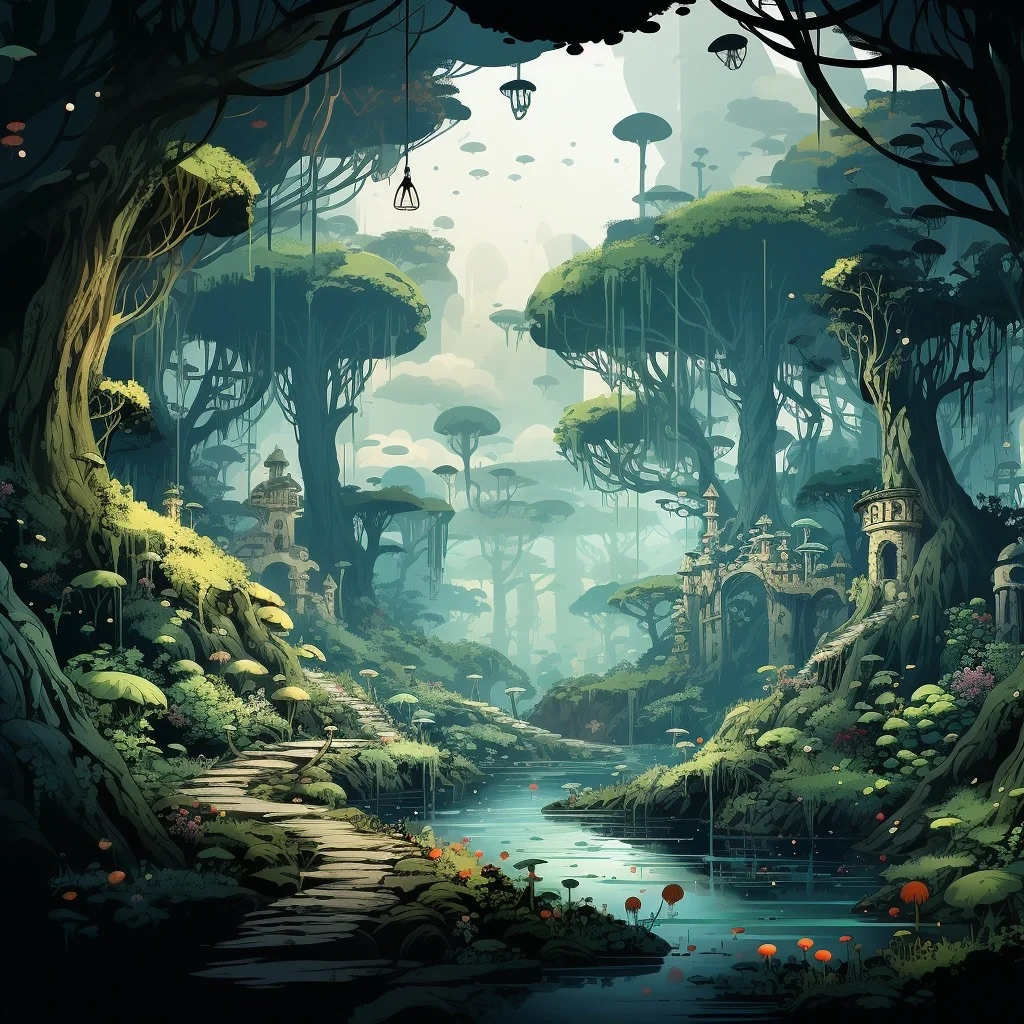
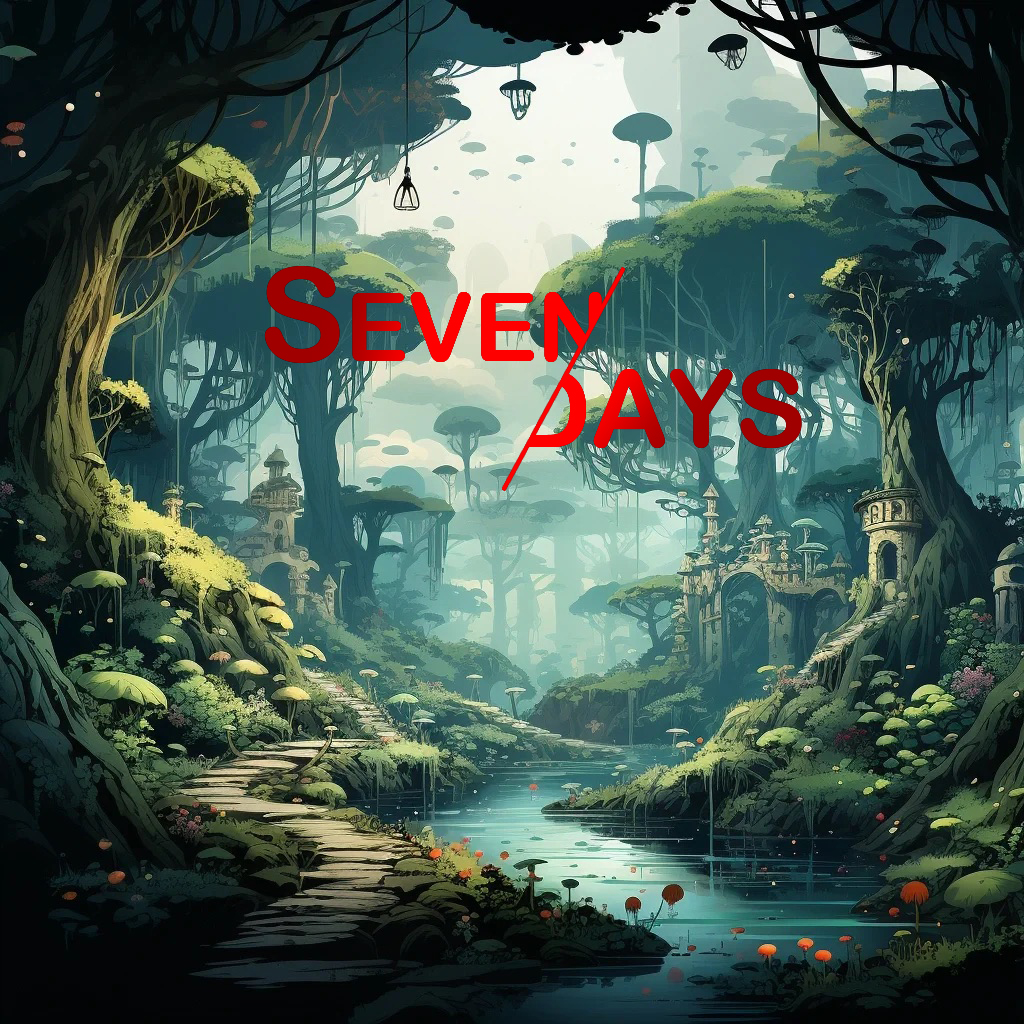
change

Changed region(s): [[0.25, 0.25, 0.7812, 0.4688], [0.5938, 0.25, 0.625, 0.2812]]

diff --git a/arc/main/java/ui/UI.java b/arc/main/java/ui/UI.java
@@ -1,10 +1,5 @@
 package arc.main.java.ui;
 
-import javax.swing.BorderFactory;
-import javax.swing.BoxLayout;
-import javax.swing.JButton;
-import javax.swing.JFrame;
-import javax.swing.JPanel;
 import javax.swing.border.Border;
 
 import arc.main.java.model.Determinator.Determinator;
@@ -17,21 +12,12 @@ import arc.main.java.model.Player.Player;
 import arc.main.java.model.Store.Order;
 import arc.main.java.model.Store.Store;
 
-import javax.swing.JLabel;
-import javax.swing.JOptionPane;
-import java.awt.GridLayout;
-import java.awt.BorderLayout;
-import java.awt.Component;
-import java.awt.GridBagLayout;
-import java.awt.GridBagConstraints;
-import java.awt.Insets;
 import java.io.BufferedReader;
 import java.io.FileReader;
 import java.io.FileWriter;
 import java.io.IOException;
 import java.util.ArrayList;
 import java.util.List;
-import java.awt.Font;
 
 import arc.main.java.model.Game.loadData;
 
@@ -88,12 +74,12 @@ public class UI extends JFrame {
         gbc.fill = GridBagConstraints.BOTH;
         gbc.anchor = GridBagConstraints.NORTH;
 
-        mainPanel.add(titlePanel);
+        /* mainPanel.add(titlePanel);
         JLabel gameNameLable = new JLabel("SEVENDAYS");
         gameNameLable.setFont(new Font("Times New Roman", Font.PLAIN, 108));
 
         titlePanel.add(gameNameLable);
-        mainPanel.add(titlePanel, gbc);
+        mainPanel.add(titlePanel, gbc); */
 
         gbc.gridy = 1;
         gbc.anchor = GridBagConstraints.CENTER;
@@ -118,6 +104,7 @@ public class UI extends JFrame {
         buttonPanel.add(exitGameButton, gbc);
 
         mainPanel.add(buttonPanel, gbc);
+        buttonPanel.setOpaque(false);
 
         // Add action listeners
         newGameButton.addActionListener(e -> {
@@ -254,7 +241,7 @@ public class UI extends JFrame {
             if (num > 0) {
                 player.getWater().setQuantity(num - 1);
                 System.out.println("Next day");
-                JOptionPane.showMessageDialog(null, "Next day");
+                JOptionPane.showMessageDialog(null, "As night falls, you consume a vial of potent antidotes to sustain your life.");
                 store.refreshOrder();
                 return true; // 返回 true 表示存活
             } else {

diff --git a/arc/main/java/model/EventManagement/Event.java b/arc/main/java/model/EventManagement/Event.java
@@ -15,7 +15,7 @@ public class Event {
     public Event(Item item, String information) {
         this.item = item;
         this.quantity = random.nextInt(2) + 1;
-        this.difficulty = item.getPrice() * quantity / 5;
+        this.difficulty = item.getPrice() * quantity / 3;
         this.information = information;
     }
 

diff --git a/arc/main/java/model/Determinator/Determinator.java b/arc/main/java/model/Determinator/Determinator.java
@@ -11,7 +11,7 @@ public class Determinator {
     }
 
     public Boolean getResult(int diff, int add) {
-        int randomInt = random.nextInt(6) + 2;
+        int randomInt = random.nextInt(10) + 2;
         return (randomInt + add) >= diff;
     }
 

diff --git a/arc/main/java/model/Store/Store.java b/arc/main/java/model/Store/Store.java
@@ -41,7 +41,6 @@ public class Store {
             int quantity = random.nextInt(2) + 1;
             newOrder(item, quantity);
         }
-        System.out.println("Orders have been refreshed.");
     }
 
     public Boolean buyWater() {
